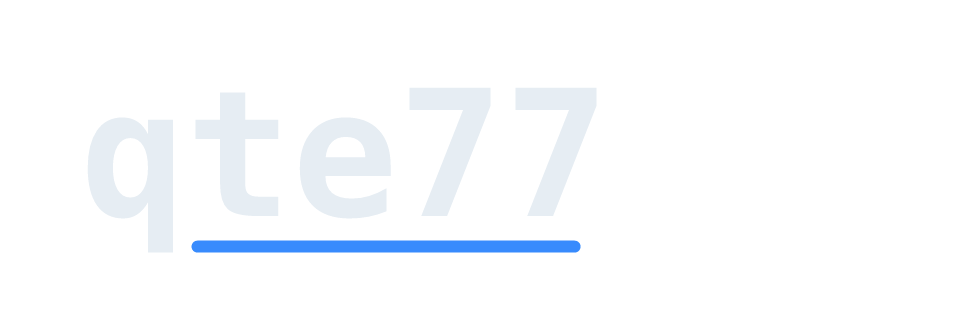
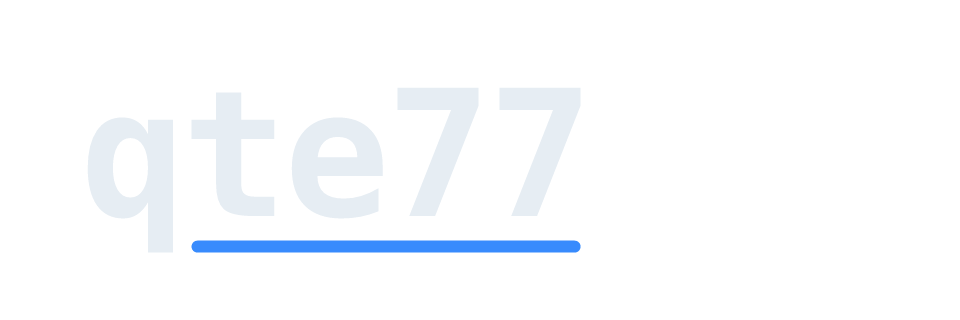
fix(brand): honor letter-spacing in svg_text_to_paths bake
Previously the bake script ignored the <text> element's letter-spacing
attribute, so paths SVGs spaced glyphs further apart than the canonical
text SVG. The wordmark's last "7" rendered ~4 units right of where the
text element placed it, leaving the underscore short of its right edge.

Now letter-spacing is added to cursor advance after each glyph, matching
CSS semantics. Wordmark underscore (47.88..145.15) now aligns with the
last 7's visible right edge (145.14).

diff --git a/brand/scripts/svg_text_to_paths.py b/brand/scripts/svg_text_to_paths.py
@@ -77,6 +77,8 @@ def _convert_text_element(text_el: ET.Element, hb_font: hb.Font, ttfont: TTFont)
     font_size = float(text_el.get("font-size", 16))
     anchor = text_el.get("text-anchor", "start")
     features = _parse_features(text_el.get("font-feature-settings"))
+    # CSS letter-spacing: extra advance added after every glyph (user units).
+    letter_spacing = float(text_el.get("letter-spacing", 0) or 0)
     scale = font_size / upem
 
     # First pass: shape every run (tspan or direct text), collect glyph data
@@ -101,7 +103,7 @@ def _convert_text_element(text_el: ET.Element, hb_font: hb.Font, ttfont: TTFont)
             gx = cursor_x + pos.x_offset * scale
             gy = cursor_y - pos.y_offset * scale
             glyphs.append((info.codepoint, gx, gy))
-            cursor_x += pos.x_advance * scale
+            cursor_x += pos.x_advance * scale + letter_spacing
         run_advance = cursor_x  # cumulative
         runs.append((run_advance, cls, glyphs))
         total_advance = cursor_x
